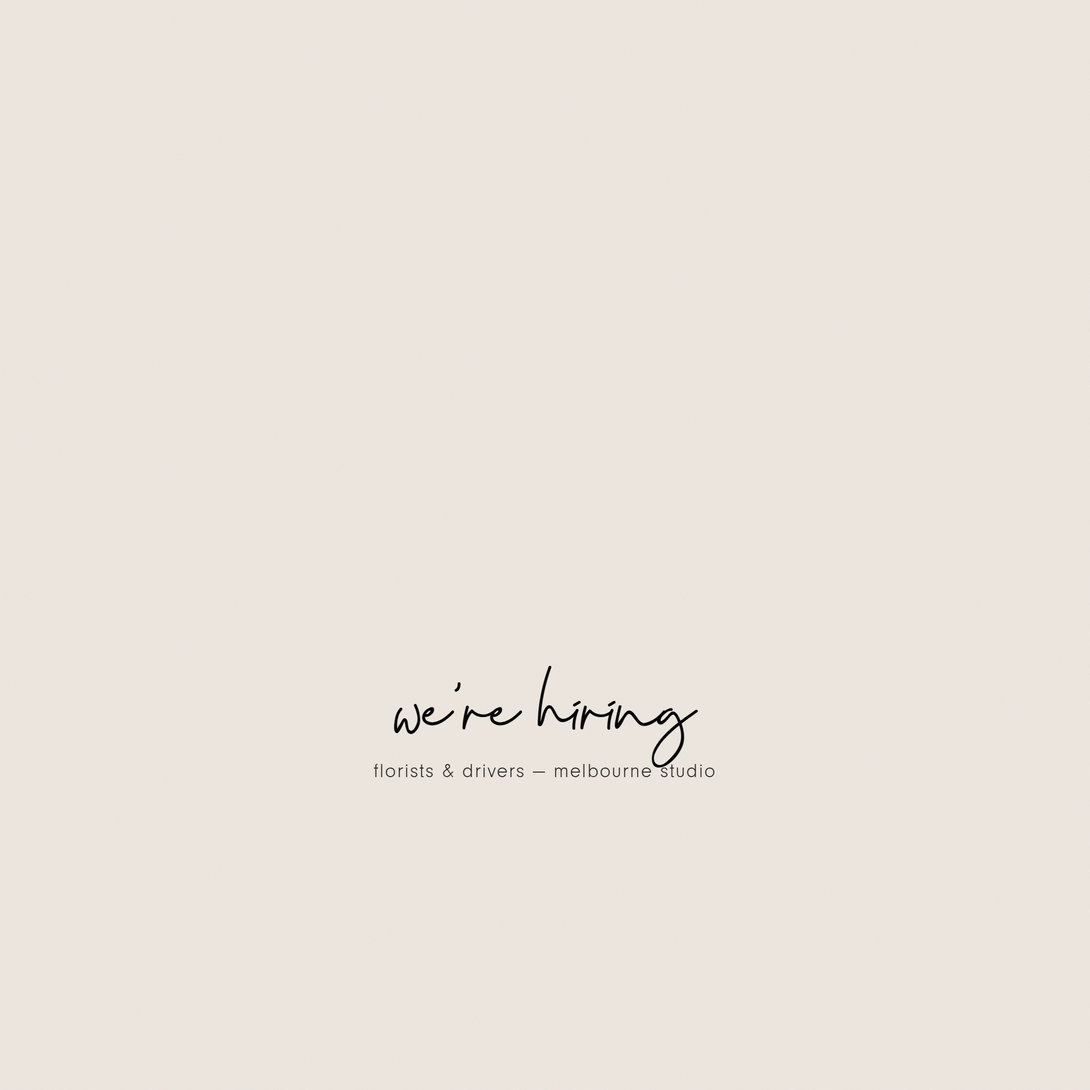
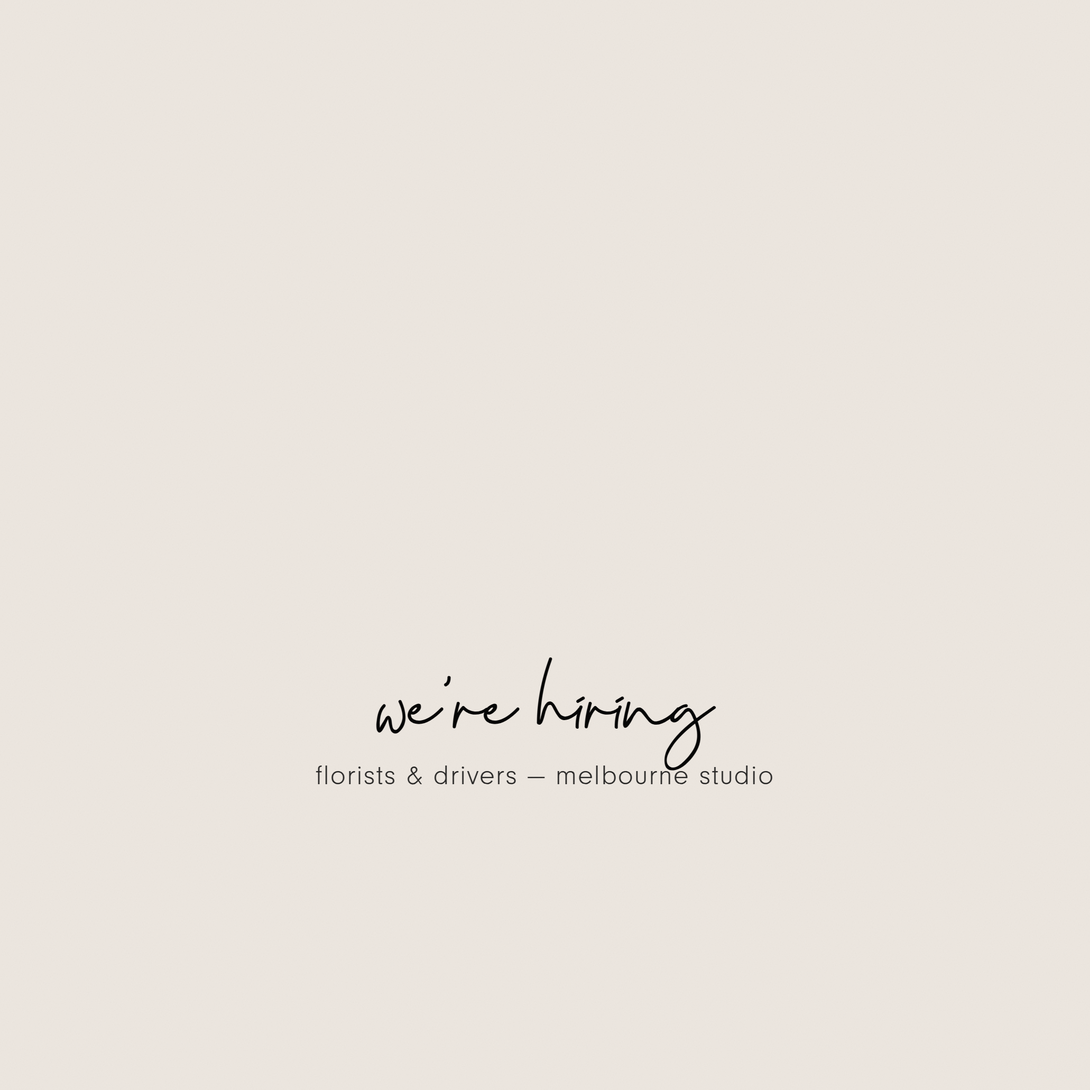
feat(type): canvas-scale typographic system across all 15 designs
A 1080px canvas renders at ~390pt on a phone — the v2 email-scale type
(kicker 11-12, body 14-16, display 48-56) was sub-legible in feed. New
scale per the design-discipline skill (vendored as the craft layer) and
the measured type in the brand's own seed artwork:

- roles: kicker 26-28 / body 30-34 / voice 40-48 / title 52-72 /
  display 96-160 / script 76-100, with per-ratio steps and a hard floor
  of 26px at 1080-wide for anything informational
- all 7 card-* lanes and all 8 story/carousel lanes resized; absolute
  rows re-tuned for the larger type; collisions fixed (promo voice/
  headline, quote-soft clay-on-cream kicker washed out)
- SYSTEM.md type contract rewritten; DESIGN.md size citations synced
- brand + feed guideline PDFs reviewed (seeds/guidelines): Lust display
  + Neuzeit body confirmed; feed sheet validates the card lane set

Changed region(s): [[0.3412, 0.6204, 0.6514, 0.7134]]

diff --git a/design-system/designs/carousel-journal/interior.html b/design-system/designs/carousel-journal/interior.html
@@ -23,28 +23,28 @@
 html,body{width:{{W}}px;height:{{H}}px;overflow:hidden}
 .stage{position:relative;width:{{W}}px;height:{{H}}px;background:#ECE6DF url('{{photo}}') center/cover no-repeat}
 .ov{position:absolute;top:0;right:0;bottom:0;left:0;background:rgba(236,230,223,.93)}
-.kicker{position:absolute;left:88px;top:88px;font-family:Sans;font-size:12px;letter-spacing:.30em;text-transform:uppercase;color:#000000}
-.idx{position:absolute;right:88px;top:88px;font-family:Sans;font-size:12px;letter-spacing:.10em;color:#000000}
-.mrule{position:absolute;left:88px;right:88px;top:142px;height:2px;background:#000000}
+.kicker{position:absolute;left:88px;top:88px;font-family:Sans;font-size:26px;letter-spacing:.25em;text-transform:uppercase;color:#000000}
+.idx{position:absolute;right:88px;top:88px;font-family:Sans;font-size:26px;letter-spacing:.10em;color:#000000}
+.mrule{position:absolute;left:88px;right:88px;top:160px;height:2px;background:#000000}
 .frule{position:absolute;left:88px;right:88px;bottom:170px;height:2px;background:#000000}
 .logo{position:absolute;left:88px;bottom:88px;height:58px}
-.read{position:absolute;right:88px;bottom:96px;font-family:Sans;font-size:12px;letter-spacing:.14em;text-transform:uppercase;color:#000000}
+.read{position:absolute;right:88px;bottom:96px;font-family:Sans;font-size:26px;letter-spacing:.14em;text-transform:uppercase;color:#000000}
 .sec{position:absolute;left:88px;right:88px;text-align:center}
-.pill{display:inline-block;border:2px solid #D8CCBE;border-radius:999px;padding:13px 30px;font-family:Sans;font-size:12px;letter-spacing:.20em;text-transform:uppercase;color:#000000;background:rgba(236,230,223,.85)}
-.q{margin-top:28px;font-family:CervI;font-size:22px;line-height:1.30;color:#000000}
+.pill{display:inline-block;border:2px solid #D8CCBE;border-radius:999px;padding:14px 34px;font-family:Sans;font-size:24px;letter-spacing:.18em;text-transform:uppercase;color:#000000;background:rgba(236,230,223,.85)}
+.q{margin-top:28px;font-family:CervI;font-size:34px;line-height:1.3;color:#000000}
 .div{position:absolute;left:88px;right:88px;height:1px;background:#D8CCBE}
-.voice{position:absolute;left:88px;right:88px;top:156px;font-family:CervI;font-style:normal;font-size:24px;line-height:1.3}</style></head><body>
+.voice{position:absolute;left:88px;right:88px;top:192px;font-family:CervI;font-style:normal;font-size:36px;line-height:1.25}</style></head><body>
 <div class="stage">
   <div class="ov"></div>
   <div class="kicker">{{kicker}}</div>
   <div class="voice">{{voice}}</div>
   <div class="idx">{{index}}</div>
   <div class="mrule"></div>
-  <div class="sec" style="top:200px"><span class="pill">{{label_1}}</span><div class="q">{{quote_1}}</div></div>
-  <div class="div" style="top:523px"></div>
-  <div class="sec" style="top:543px"><span class="pill">{{label_2}}</span><div class="q">{{quote_2}}</div></div>
-  <div class="div" style="top:866px"></div>
-  <div class="sec" style="top:886px"><span class="pill">{{label_3}}</span><div class="q">{{quote_3}}</div></div>
+  <div class="sec" style="top:224px"><span class="pill">{{label_1}}</span><div class="q">{{quote_1}}</div></div>
+  <div class="div" style="top:548px"></div>
+  <div class="sec" style="top:572px"><span class="pill">{{label_2}}</span><div class="q">{{quote_2}}</div></div>
+  <div class="div" style="top:896px"></div>
+  <div class="sec" style="top:920px"><span class="pill">{{label_3}}</span><div class="q">{{quote_3}}</div></div>
   <div class="frule"></div>
   <img class="logo" src="{{ASSETS_BASE}}/assets/logo_h_black.png">
   <div class="read">{{cta}}</div>

diff --git a/design-system/designs/carousel-journal/intro.html b/design-system/designs/carousel-journal/intro.html
@@ -20,17 +20,17 @@
 html,body{width:{{W}}px;height:{{H}}px;overflow:hidden}
 .stage{position:relative;width:{{W}}px;height:{{H}}px;background:#ECE6DF url('{{photo}}') center/cover no-repeat}
 .ov{position:absolute;top:0;right:0;bottom:0;left:0;background:rgba(236,230,223,.93)}
-.kicker{position:absolute;left:88px;top:88px;font-family:Sans;font-size:12px;letter-spacing:.30em;text-transform:uppercase;color:#000000}
-.idx{position:absolute;right:88px;top:88px;font-family:Sans;font-size:12px;letter-spacing:.10em;color:#000000}
-.mrule{position:absolute;left:88px;right:88px;top:142px;height:2px;background:#000000}
-.lede{position:absolute;left:88px;top:200px;width:872px;font-family:Lust;font-size:36px;line-height:1.13;letter-spacing:-.5px;color:#000000}
+.kicker{position:absolute;left:88px;top:88px;font-family:Sans;font-size:26px;letter-spacing:.25em;text-transform:uppercase;color:#000000}
+.idx{position:absolute;right:88px;top:88px;font-family:Sans;font-size:26px;letter-spacing:.10em;color:#000000}
+.mrule{position:absolute;left:88px;right:88px;top:160px;height:2px;background:#000000}
+.lede{position:absolute;left:88px;top:268px;width:904px;font-family:Lust;font-size:52px;line-height:1.18;letter-spacing:-.5px;color:#000000}
 .lede i{font-style:normal}
-.body{position:absolute;left:88px;top:506px;width:792px;font-family:Sans;font-size:16px;line-height:1.56;color:#000000}
-.lead{position:absolute;left:88px;bottom:236px;font-family:CervI;font-size:22px;color:#000000}
+.body{position:absolute;left:88px;top:580px;width:856px;font-family:Sans;font-size:30px;line-height:1.5;color:#000000}
+.lead{position:absolute;left:88px;bottom:248px;font-family:CervI;font-size:36px;color:#000000}
 .frule{position:absolute;left:88px;right:88px;bottom:170px;height:2px;background:#000000}
 .logo{position:absolute;left:88px;bottom:88px;height:58px}
-.read{position:absolute;right:88px;bottom:96px;font-family:Sans;font-size:12px;letter-spacing:.14em;text-transform:uppercase;color:#000000}
-.voice{position:absolute;left:88px;right:88px;top:124px;font-family:CervI;font-style:normal;font-size:24px;line-height:1.3}</style></head><body>
+.read{position:absolute;right:88px;bottom:96px;font-family:Sans;font-size:26px;letter-spacing:.14em;text-transform:uppercase;color:#000000}
+.voice{position:absolute;left:88px;right:88px;top:192px;font-family:CervI;font-style:normal;font-size:40px;line-height:1.25}</style></head><body>
 <div class="stage">
   <div class="ov"></div>
   <div class="kicker">{{kicker}}</div>

diff --git a/design-system/designs/story-promo/cover.html b/design-system/designs/story-promo/cover.html
@@ -25,15 +25,15 @@ html,body{width:{{W}}px;height:{{H}}px;overflow:hidden}
 .plate{position:absolute;left:0;right:0;top:0;height:1200px;background:#000000 url('{{photo}}') center/cover no-repeat}
 .plate::after{content:"";position:absolute;left:0;right:0;top:0;bottom:0;background:transparent}
 .stage.dark .plate::after{background:rgba(0,0,0,.45)}
-.kicker{position:absolute;left:88px;top:1276px;font-family:SansB;font-size:12px;letter-spacing:.30em;text-transform:uppercase;color:var(--char)}
-.h{position:absolute;left:88px;right:88px;top:1376px;font-family:Lust;font-size:48px;line-height:1.05;letter-spacing:-0.5px;color:var(--ink)}
+.kicker{position:absolute;left:88px;top:1252px;font-family:SansB;font-size:28px;letter-spacing:.25em;text-transform:uppercase;color:var(--char)}
+.h{position:absolute;left:88px;right:88px;top:1396px;font-family:Lust;font-size:72px;line-height:1.05;letter-spacing:-0.5px;color:var(--ink)}
 .h i{font-style:normal}
-.sub{position:absolute;left:88px;right:88px;top:1456px;font-family:Sans;font-size:16px;line-height:1.5;color:var(--char)}
-.pill{position:absolute;left:88px;top:1512px;display:inline-block;padding:14px 22px;background:var(--pill);color:var(--pill-ink);font-family:SansB;font-size:12px;letter-spacing:.08em;border-radius:999px}
+.sub{position:absolute;left:88px;right:88px;top:1516px;font-family:Sans;font-size:30px;line-height:1.45;color:var(--char)}
+.pill{position:absolute;left:88px;top:1592px;display:inline-block;padding:18px 34px;background:var(--pill);color:var(--pill-ink);font-family:SansB;font-size:24px;letter-spacing:.08em;border-radius:999px}
 .rule{position:absolute;left:88px;right:88px;bottom:160px;height:1px;background:var(--rule)}
 .logo{position:absolute;left:88px;bottom:72px;height:52px}
-.cta{position:absolute;right:88px;bottom:84px;font-family:SansB;font-size:12px;letter-spacing:.14em;text-transform:uppercase;color:var(--ink)}
-.voice{position:absolute;left:88px;right:88px;top:1312px;font-family:CervI;font-style:normal;font-size:24px;line-height:1.3}</style></head><body>
+.cta{position:absolute;right:88px;bottom:84px;font-family:SansB;font-size:26px;letter-spacing:.14em;text-transform:uppercase;color:var(--ink)}
+.voice{position:absolute;left:88px;right:88px;top:1304px;font-family:CervI;font-style:normal;font-size:44px;line-height:1.25}</style></head><body>
 <div class="stage {{THEME_CLASS}}">
   <div class="plate"></div>
   <div class="kicker">{{kicker}}</div>

diff --git a/design-system/designs/story-quote-soft/cover.html b/design-system/designs/story-quote-soft/cover.html
@@ -25,13 +25,13 @@ html,body{width:{{W}}px;height:{{H}}px;overflow:hidden}
 .photo{position:absolute;left:420px;right:0;top:0;bottom:0;background:url('{{photo}}') center/cover no-repeat;filter:saturate(.95)contrast(1.02)}
 .photo::after{content:"";position:absolute;left:0;right:0;top:0;bottom:0;background:linear-gradient(90deg,rgba(236,230,223,1) 0%,rgba(236,230,223,0) 22%)}
 .rail{position:absolute;left:0;top:0;bottom:0;width:560px;background:#ECE6DF}
-.kicker{position:absolute;left:64px;top:280px;font-family:SansB;font-size:12px;letter-spacing:.32em;text-transform:uppercase;color:#D8CCBE;right:540px}
-.head{position:absolute;left:64px;right:540px;top:340px;font-family:Lust;font-size:36px;line-height:1.16;letter-spacing:-.5px;color:#000000}
+.kicker{position:absolute;left:64px;top:260px;font-family:SansB;font-size:26px;letter-spacing:.25em;text-transform:uppercase;color:rgba(0,0,0,.62);right:540px}
+.head{position:absolute;left:64px;right:540px;top:420px;font-family:Lust;font-size:52px;line-height:1.18;letter-spacing:-.5px;color:#000000}
 .head i{font-style:normal}
-.body{position:absolute;left:64px;right:540px;top:980px;font-family:Sans;font-size:16px;line-height:1.55;color:#000000}
-.url{position:absolute;left:64px;top:1500px;font-family:Sans;font-size:12px;letter-spacing:.14em;text-transform:lowercase;color:#D8CCBE;right:540px}
-.cta{position:absolute;left:64px;bottom:96px;font-family:SansB;font-size:12px;letter-spacing:.14em;text-transform:uppercase;color:#000000;right:540px}
-.voice{position:absolute;left:88px;right:88px;top:320px;font-family:CervI;font-style:normal;font-size:24px;line-height:1.3}</style></head><body>
+.body{position:absolute;left:64px;right:540px;top:1000px;font-family:Sans;font-size:28px;line-height:1.5;color:#000000}
+.url{position:absolute;left:64px;top:1480px;font-family:Sans;font-size:24px;letter-spacing:.12em;text-transform:lowercase;color:rgba(0,0,0,.55);right:540px}
+.cta{position:absolute;left:64px;bottom:96px;font-family:SansB;font-size:26px;letter-spacing:.14em;text-transform:uppercase;color:#000000;right:540px}
+.voice{position:absolute;left:64px;right:540px;top:316px;font-family:CervI;font-style:normal;font-size:40px;line-height:1.25}</style></head><body>
 <div class="stage">
   <div class="photo"></div>
   <div class="rail"></div>

diff --git a/design-system/designs/story-gift/closing.html b/design-system/designs/story-gift/closing.html
@@ -24,14 +24,14 @@ html,body{width:{{W}}px;height:{{H}}px;overflow:hidden}
 .plate{position:absolute;left:0;right:0;top:0;height:1056px;background:#000000 url('{{photo}}') center/cover no-repeat}
 .plate::after{content:"";position:absolute;left:0;right:0;top:0;bottom:0;background:transparent}
 .stage.dark .plate::after{background:rgba(0,0,0,.55)}
-.kicker{position:absolute;left:88px;top:1132px;font-family:SansB;font-size:12px;letter-spacing:.30em;text-transform:uppercase;color:var(--char);text-align:center}
-.h{position:absolute;left:88px;right:88px;top:1216px;font-family:Lust;font-size:40px;line-height:1.10;letter-spacing:-0.5px;color:var(--ink);text-align:center}
+.kicker{position:absolute;left:88px;right:88px;top:1124px;font-family:SansB;font-size:28px;letter-spacing:.25em;text-transform:uppercase;color:var(--char);text-align:center}
+.h{position:absolute;left:88px;right:88px;top:1264px;font-family:Lust;font-size:64px;line-height:1.12;letter-spacing:-0.5px;color:var(--ink);text-align:center}
 .h i{font-style:normal}
-.url{position:absolute;left:88px;right:88px;top:1500px;font-family:Sans;font-size:12px;letter-spacing:.10em;text-align:center;color:var(--char);text-transform:lowercase}
+.url{position:absolute;left:88px;right:88px;top:1500px;font-family:Sans;font-size:24px;letter-spacing:.10em;text-align:center;color:var(--char);text-transform:lowercase}
 .rule{position:absolute;left:88px;right:88px;bottom:160px;height:1px;background:var(--rule)}
 .logo{position:absolute;left:88px;bottom:72px;height:52px}
-.cta{position:absolute;right:88px;bottom:84px;font-family:SansB;font-size:12px;letter-spacing:.14em;text-transform:uppercase;color:var(--ink)}
-.voice{position:absolute;left:88px;right:88px;top:1168px;font-family:CervI;font-style:normal;font-size:24px;line-height:1.3;text-align:center}</style></head><body>
+.cta{position:absolute;right:88px;bottom:84px;font-family:SansB;font-size:26px;letter-spacing:.14em;text-transform:uppercase;color:var(--ink)}
+.voice{position:absolute;left:88px;right:88px;top:1180px;font-family:CervI;font-style:normal;font-size:44px;line-height:1.25;text-align:center}</style></head><body>
 <div class="stage {{THEME_CLASS}}">
   <div class="plate"></div>
   <div class="kicker">{{kicker}}</div>

diff --git a/design-system/designs/carousel-journal/cover.html b/design-system/designs/carousel-journal/cover.html
@@ -24,15 +24,15 @@ html,body{width:{{W}}px;height:{{H}}px;overflow:hidden}
 .stage.dark{--ink:#FFFFFF;--char:#ECE6DF;--rule:#D8CCBE}
 .ov{position:absolute;top:0;right:0;bottom:0;left:0;background:transparent}
 .stage.dark .ov{background:rgba(0,0,0,.60)}
-.kicker{position:absolute;left:88px;top:88px;font-family:Sans;font-size:12px;letter-spacing:.30em;text-transform:uppercase;color:var(--char)}
-.idx{position:absolute;right:88px;top:88px;font-family:Sans;font-size:12px;letter-spacing:.10em;color:var(--char)}
-.mrule{position:absolute;left:88px;right:88px;top:142px;height:2px;background:var(--rule)}
-.h{position:absolute;left:88px;top:220px;width:904px;font-family:Lust;font-size:56px;line-height:1.03;letter-spacing:-1px;color:var(--ink)}
+.kicker{position:absolute;left:88px;top:88px;font-family:Sans;font-size:26px;letter-spacing:.25em;text-transform:uppercase;color:var(--char)}
+.idx{position:absolute;right:88px;top:88px;font-family:Sans;font-size:26px;letter-spacing:.10em;color:var(--char)}
+.mrule{position:absolute;left:88px;right:88px;top:160px;height:2px;background:var(--rule)}
+.h{position:absolute;left:88px;top:268px;width:904px;font-family:Lust;font-size:88px;line-height:1.04;letter-spacing:-1px;color:var(--ink)}
 .h i{font-style:normal}
 .frule{position:absolute;left:88px;right:88px;bottom:170px;height:2px;background:var(--rule)}
 .logo{position:absolute;left:88px;bottom:88px;height:58px}
-.read{position:absolute;right:88px;bottom:96px;font-family:Sans;font-size:12px;letter-spacing:.14em;text-transform:uppercase;color:var(--ink)}
-.voice{position:absolute;left:88px;right:88px;top:156px;font-family:CervI;font-style:normal;font-size:24px;line-height:1.3}</style></head><body>
+.read{position:absolute;right:88px;bottom:96px;font-family:Sans;font-size:26px;letter-spacing:.14em;text-transform:uppercase;color:var(--ink)}
+.voice{position:absolute;left:88px;right:88px;top:192px;font-family:CervI;font-style:normal;font-size:40px;line-height:1.25}</style></head><body>
 <div class="stage {{THEME_CLASS}}">
   <div class="ov"></div>
   <div class="kicker">{{kicker}}</div>

diff --git a/design-system/designs/story-gift/intro.html b/design-system/designs/story-gift/intro.html
@@ -24,14 +24,14 @@ html,body{width:{{W}}px;height:{{H}}px;overflow:hidden}
 .plate{position:absolute;left:0;right:0;top:0;height:1056px;background:#000000 url('{{photo}}') center/cover no-repeat}
 .plate::after{content:"";position:absolute;left:0;right:0;top:0;bottom:0;background:transparent}
 .stage.dark .plate::after{background:rgba(0,0,0,.50)}
-.kicker{position:absolute;left:88px;top:1132px;font-family:SansB;font-size:12px;letter-spacing:.30em;text-transform:uppercase;color:var(--char)}
-.h{position:absolute;left:88px;right:88px;top:1232px;font-family:Lust;font-size:48px;line-height:1.05;letter-spacing:-0.5px;color:var(--ink)}
+.kicker{position:absolute;left:88px;top:1124px;font-family:SansB;font-size:28px;letter-spacing:.25em;text-transform:uppercase;color:var(--char)}
+.h{position:absolute;left:88px;right:88px;top:1256px;font-family:Lust;font-size:72px;line-height:1.05;letter-spacing:-0.5px;color:var(--ink)}
 .h i{font-style:normal}
-.body{position:absolute;left:88px;right:88px;top:1320px;font-family:Sans;font-size:16px;line-height:1.55;color:var(--char)}
+.body{position:absolute;left:88px;right:88px;top:1430px;font-family:Sans;font-size:30px;line-height:1.5;color:var(--char)}
 .rule{position:absolute;left:88px;right:88px;bottom:160px;height:1px;background:var(--rule)}
 .logo{position:absolute;left:88px;bottom:72px;height:52px}
-.hint{position:absolute;right:88px;bottom:84px;font-family:Sans;font-size:11px;letter-spacing:.10em;color:var(--char);text-transform:uppercase}
-.voice{position:absolute;left:88px;right:88px;top:1168px;font-family:CervI;font-style:normal;font-size:24px;line-height:1.3}</style></head><body>
+.hint{position:absolute;right:88px;bottom:84px;font-family:Sans;font-size:24px;letter-spacing:.10em;color:var(--char);text-transform:uppercase}
+.voice{position:absolute;left:88px;right:88px;top:1180px;font-family:CervI;font-style:normal;font-size:44px;line-height:1.25}</style></head><body>
 <div class="stage {{THEME_CLASS}}">
   <div class="plate"></div>
   <div class="kicker">{{kicker}}</div>

diff --git a/design-system/designs/story-studio/cover.html b/design-system/designs/story-studio/cover.html
@@ -24,14 +24,14 @@ html,body{width:{{W}}px;height:{{H}}px;overflow:hidden}
 .plate{position:absolute;left:0;right:0;top:0;height:1056px;background:#000000 url('{{photo}}') center/cover no-repeat}
 .plate::after{content:"";position:absolute;left:0;right:0;top:0;bottom:0;background:transparent}
 .stage.dark .plate::after{background:rgba(0,0,0,.50)}
-.kicker{position:absolute;left:88px;top:1132px;font-family:SansB;font-size:12px;letter-spacing:.30em;text-transform:uppercase;color:var(--char)}
-.h{position:absolute;left:88px;right:88px;top:1232px;font-family:Lust;font-size:48px;line-height:1.05;letter-spacing:-0.5px;color:var(--ink)}
+.kicker{position:absolute;left:88px;top:1124px;font-family:SansB;font-size:28px;letter-spacing:.25em;text-transform:uppercase;color:var(--char)}
+.h{position:absolute;left:88px;right:88px;top:1256px;font-family:Lust;font-size:76px;line-height:1.05;letter-spacing:-0.5px;color:var(--ink)}
 .h i{font-style:normal}
-.body{position:absolute;left:88px;right:88px;top:1320px;font-family:Sans;font-size:16px;line-height:1.55;color:var(--char)}
+.body{position:absolute;left:88px;right:88px;top:1430px;font-family:Sans;font-size:30px;line-height:1.5;color:var(--char)}
 .rule{position:absolute;left:88px;right:88px;bottom:160px;height:1px;background:var(--rule)}
 .logo{position:absolute;left:88px;bottom:72px;height:52px}
-.cta{position:absolute;right:88px;bottom:84px;font-family:SansB;font-size:12px;letter-spacing:.14em;text-transform:uppercase;color:var(--ink)}
-.voice{position:absolute;left:88px;right:88px;top:1168px;font-family:CervI;font-style:normal;font-size:24px;line-height:1.3}</style></head><body>
+.cta{position:absolute;right:88px;bottom:84px;font-family:SansB;font-size:26px;letter-spacing:.14em;text-transform:uppercase;color:var(--ink)}
+.voice{position:absolute;left:88px;right:88px;top:1180px;font-family:CervI;font-style:normal;font-size:44px;line-height:1.25}</style></head><body>
 <div class="stage {{THEME_CLASS}}">
   <div class="plate"></div>
   <div class="kicker">{{kicker}}</div>

diff --git a/design-system/designs/story-editorial/cover.html b/design-system/designs/story-editorial/cover.html
@@ -23,14 +23,14 @@ html,body{width:{{W}}px;height:{{H}}px;overflow:hidden}
 .stage.light{background:#ECE6DF url('{{photo}}') center/cover no-repeat}
 .ov{position:absolute;left:0;right:0;top:0;bottom:0;background:rgba(0,0,0,.55)}
 .stage.light .ov{background:rgba(236,230,223,.80)}
-.kicker{position:absolute;left:88px;top:560px;font-family:SansB;font-size:12px;letter-spacing:.32em;text-transform:uppercase;color:var(--clay-tint)}
-.quote{position:absolute;left:88px;right:88px;top:610px;font-family:Lust;font-size:52px;line-height:1.18;letter-spacing:-.5px;color:var(--white)}
+.kicker{position:absolute;left:88px;top:500px;font-family:SansB;font-size:28px;letter-spacing:.25em;text-transform:uppercase;color:var(--clay-tint)}
+.quote{position:absolute;left:88px;right:88px;top:644px;font-family:Lust;font-size:76px;line-height:1.18;letter-spacing:-.5px;color:var(--white)}
 .stage.light .quote{color:var(--ink)}
 .quote i{font-style:normal}
-.attr{position:absolute;left:88px;right:88px;top:1300px;font-family:Sans;font-size:11px;letter-spacing:.18em;text-transform:uppercase;color:var(--clay-tint)}
+.attr{position:absolute;left:88px;right:88px;top:1320px;font-family:Sans;font-size:24px;letter-spacing:.16em;text-transform:uppercase;color:var(--clay-tint)}
 .mark{position:absolute;left:88px;right:88px;bottom:200px;height:1px;background:var(--rule);opacity:.6}
 .logo{position:absolute;left:88px;bottom:96px;height:48px}
-.voice{position:absolute;left:88px;right:88px;top:600px;font-family:CervI;font-style:normal;font-size:24px;line-height:1.3}</style></head><body>
+.voice{position:absolute;left:88px;right:88px;top:556px;font-family:CervI;font-style:normal;font-size:44px;line-height:1.25}</style></head><body>
 <div class="stage {{THEME_CLASS}}">
   <div class="ov"></div>
   <div class="kicker">{{kicker}}</div>

diff --git a/design-system/designs/story-tagline/cover.html b/design-system/designs/story-tagline/cover.html
@@ -17,12 +17,12 @@ html,body{width:{{W}}px;height:{{H}}px;overflow:hidden}
 .stage{position:relative;width:{{W}}px;height:{{H}}px;background:#000000 url('{{photo}}') center/cover no-repeat;
        --ink:#000000;--white:#FFFFFF;--clay-tint:#ECE6DF;--clay:#D8CCBE;--rule:#FFFFFF}
 .ov{position:absolute;left:0;right:0;top:0;bottom:0;background:rgba(0,0,0,.55)}
-.kicker{position:absolute;left:88px;top:1200px;font-family:SansB;font-size:12px;letter-spacing:.32em;text-transform:uppercase;color:var(--clay-tint)}
-.h{position:absolute;left:88px;right:88px;top:1276px;font-family:SansB;font-size:56px;line-height:1.05;letter-spacing:-.5px;color:var(--white);text-transform:uppercase}
-.sub{position:absolute;left:88px;right:88px;top:1500px;font-family:Sans;font-size:16px;line-height:1.5;color:var(--clay-tint)}
+.kicker{position:absolute;left:88px;top:1176px;font-family:SansB;font-size:28px;letter-spacing:.25em;text-transform:uppercase;color:var(--clay-tint)}
+.h{position:absolute;left:88px;right:88px;top:1252px;font-family:SansB;font-size:84px;line-height:1.05;letter-spacing:-.5px;color:var(--white);text-transform:uppercase}
+.sub{position:absolute;left:88px;right:88px;top:1470px;font-family:Sans;font-size:30px;line-height:1.45;color:var(--clay-tint)}
 .rule{position:absolute;left:88px;right:88px;bottom:200px;height:1px;background:var(--rule);opacity:.5}
 .logo{position:absolute;left:88px;bottom:96px;height:48px}
-.cta{position:absolute;right:88px;bottom:104px;font-family:SansB;font-size:12px;letter-spacing:.14em;text-transform:uppercase;color:var(--white)}
+.cta{position:absolute;right:88px;bottom:104px;font-family:SansB;font-size:26px;letter-spacing:.14em;text-transform:uppercase;color:var(--white)}
 </style></head><body>
 <div class="stage">
   <div class="ov"></div>

diff --git a/design-system/designs/card-statement-split/cover.html b/design-system/designs/card-statement-split/cover.html
@@ -19,18 +19,18 @@ html,body{width:{{W}}px;height:{{H}}px;overflow:hidden}
 .stage.land{--m:56px}
 .plate{position:absolute;right:0;top:15%;bottom:15%;width:50%;background:#000000 url('{{photo}}') center/cover no-repeat}
 .copy{position:absolute;left:var(--m);top:50%;transform:translateY(-50%);width:42%}
-.kicker{font-family:SansB;font-size:12px;letter-spacing:.30em;text-transform:uppercase;color:var(--clay);margin-bottom:24px}
-.h{font-family:Lust;font-size:54px;line-height:1.22;text-transform:uppercase;letter-spacing:1px;color:var(--ink);white-space:pre-line}
-.attr{font-family:SansB;font-size:15px;letter-spacing:.14em;text-transform:uppercase;color:var(--ink);margin-top:40px}
+.kicker{font-family:SansB;font-size:26px;letter-spacing:.25em;text-transform:uppercase;color:var(--clay);margin-bottom:24px}
+.h{font-family:Lust;font-size:64px;line-height:1.22;text-transform:uppercase;letter-spacing:1px;color:var(--ink);white-space:pre-line}
+.attr{font-family:SansB;font-size:26px;letter-spacing:.14em;text-transform:uppercase;color:var(--ink);margin-top:40px}
 /* portrait 4:5 */
 .stage.r4x5 .plate{top:12%;bottom:12%}
 /* story 9:16 — plate on top, copy beneath, clear of UI zones */
 .stage.r9x16 .plate{left:auto;right:0;top:9%;bottom:auto;height:55%;width:71%}
 .stage.r9x16 .copy{top:auto;transform:none;bottom:440px;width:72%}
-.stage.r9x16 .h{font-size:62px}
+.stage.r9x16 .h{font-size:72px}
 /* landscape — full-height right panel */
 .stage.land .plate{top:0;bottom:0;width:50%}
-.stage.land .h{font-size:38px}
+.stage.land .h{font-size:48px}
 .stage.land .copy{width:38%}
 </style></head><body>
 <div class="stage {{ORIENT}} {{RATIO_CLASS}}">

diff --git a/design-system/designs/card-testimonial/cover.html b/design-system/designs/card-testimonial/cover.html
@@ -23,17 +23,17 @@ html,body{width:{{W}}px;height:{{H}}px;overflow:hidden}
     -webkit-mask:url('{{ASSETS_BASE}}/assets/lineart/{{motif}}.svg') center/contain no-repeat;
     mask:url('{{ASSETS_BASE}}/assets/lineart/{{motif}}.svg') center/contain no-repeat}
 .card{position:absolute;left:10%;right:13%;top:17%;bottom:17%;background:#FFFFFF;
-      padding:72px 64px;display:flex;flex-direction:column;justify-content:center}
-.kicker{font-family:SansB;font-size:12px;letter-spacing:.30em;text-transform:uppercase;color:var(--clay);margin-bottom:24px}
-.q{font-family:Lust;font-size:40px;line-height:1.32;color:var(--ink)}
-.attr{font-family:SansB;font-size:14px;letter-spacing:.18em;text-transform:uppercase;color:var(--ink);margin-top:40px}
+      padding:80px 72px;display:flex;flex-direction:column;justify-content:center}
+.kicker{font-family:SansB;font-size:26px;letter-spacing:.25em;text-transform:uppercase;color:var(--clay);margin-bottom:24px}
+.q{font-family:Lust;font-size:56px;line-height:1.3;color:var(--ink)}
+.attr{font-family:SansB;font-size:26px;letter-spacing:.16em;text-transform:uppercase;color:var(--ink);margin-top:40px}
 /* story 9:16 — card sits inside the UI-safe band */
 .stage.r9x16 .card{left:9%;right:9%;top:24%;bottom:26%}
-.stage.r9x16 .q{font-size:44px}
+.stage.r9x16 .q{font-size:64px}
 .stage.r9x16 .la{top:-4%;bottom:-6%;right:-14%;width:94%}
 /* landscape */
 .stage.land .card{left:15%;right:15%;top:13%;bottom:13%;padding:56px 64px}
-.stage.land .q{font-size:30px}
+.stage.land .q{font-size:40px}
 .stage.land .attr{margin-top:24px}
 .stage.land .la{top:-10%;bottom:-12%;right:-4%;width:44%}
 </style></head><body>
